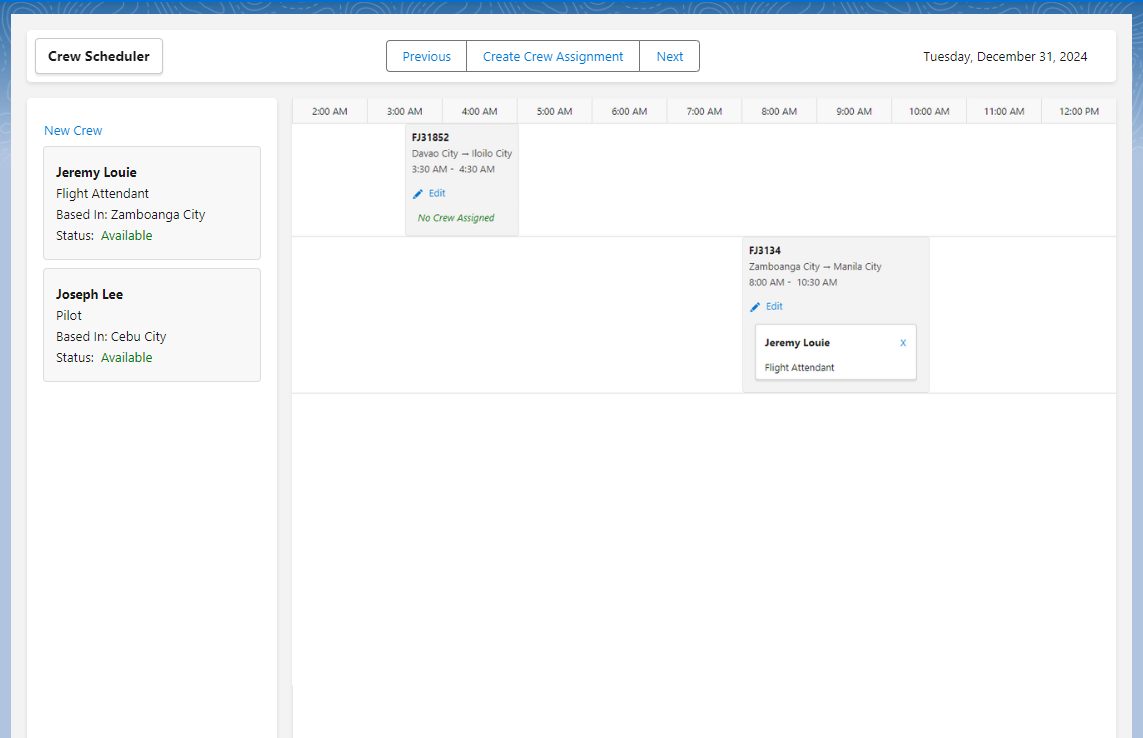
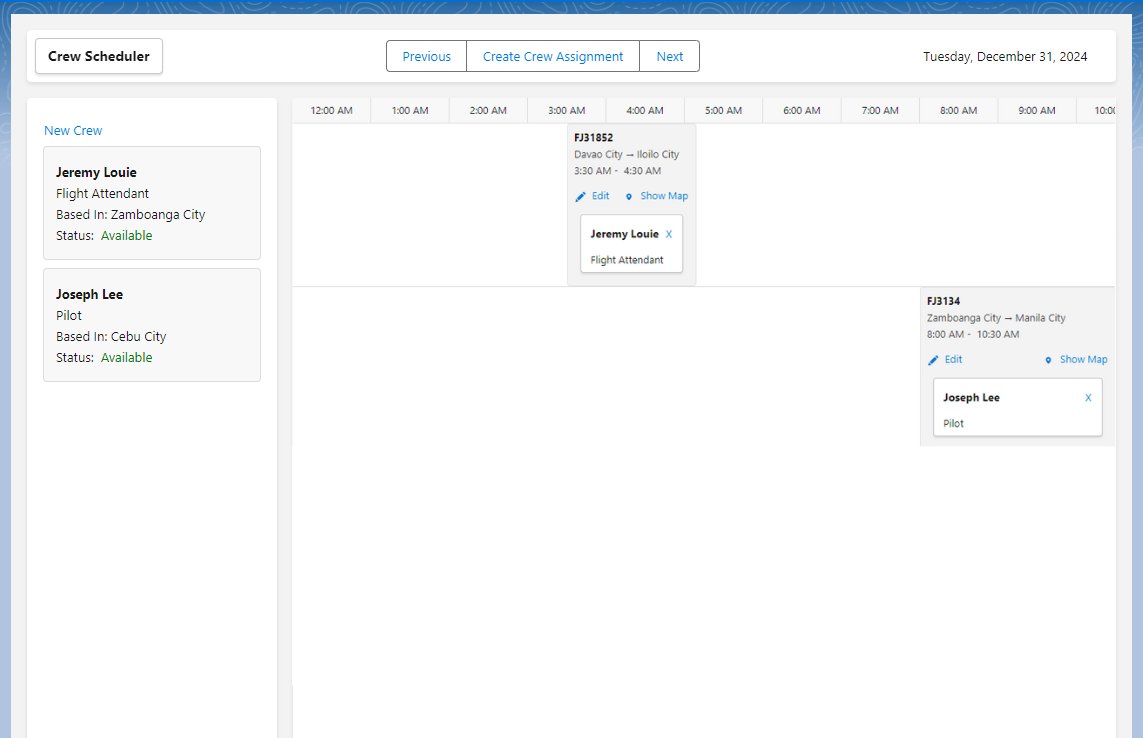
map

diff --git a/app/routes/projects.airlineCrewScheduling/airline.jsx b/app/routes/projects.airlineCrewScheduling/airline.jsx
@@ -4,6 +4,7 @@ import backgroundSpr from '~/assets/Airline-Crew-Scheduling.png';
 import airlineCrews from '~/assets/acs-crews.png';
 import airlineCrewSchedulingTimeline from '~/assets/acs-timeline.png';
 import airlineCrewSchedulingNewAssignment from '~/assets/acs-new-assignment.png';
+import flightMap from '~/assets/flight-map.png';
 import udemyCertificate from '~/assets/UC-0f64e9d6-3334-4a59-aec6-56dd7a7204de.pdf';
 import assignmentsCode from './createAssignments.txt?raw';
 import availabilityTriggerCode from './availabilityTrigger.txt?raw';
@@ -57,6 +58,7 @@ export const Airline = () => {
   const newAssignmentSection = useRef();
   const codeSection = useRef();
   const triggerSection = useRef();
+  const flightMapSection = useRef();
 
   const sections = [
     headerSection,
@@ -66,6 +68,7 @@ export const Airline = () => {
     crewsSection,
     codeSection,
     triggerSection,
+    flightMapSection,
   ];
 
   useEffect(() => {
@@ -164,8 +167,7 @@ export const Airline = () => {
               <span className={styles.captionContent}>
                 <Icon icon="link" className={styles.captionIcon} />
                 <span className={styles.imageCaption}>
-                  "Crews who are available for flight assignments can be dropped in one of
-                  these assignment boxes."
+                  "Crews who are available for flight assignments are dropped in these assignment boxes."
                 </span>
               </span>
             </div>
@@ -324,6 +326,36 @@ export const Airline = () => {
                   {availabilityTriggerCode}
                 </SyntaxHighlighter>
               </div>
+            </div>
+          </ProjectSectionContent>
+        </ProjectSection>
+        <ProjectSection padding="top" ref={flightMapSection}>
+          <ProjectSectionContent>
+            <ProjectImage
+              className={styles.themeImage}
+              key={theme}
+              srcSet={
+                isDark
+                  ? `${flightMap} 1280w, ${flightMap} 2560w`
+                  : `${flightMap} 1280w, ${flightMap} 2560w`
+              }
+              width={1280}
+              height={800}
+              placeholder={
+                isDark
+                  ? flightMap
+                  : flightMap
+              }
+              sizes={`(max-width: ${media.mobile}px) 100vw, (max-width: ${media.tablet}px) 800px, 1000px`}
+              alt="This is how those assignment boxes are created"
+            />
+            <div className={styles.captionWrapper}>
+              <span className={styles.captionContent}>
+                <Icon icon="link" className={styles.captionIcon} />
+                <span className={styles.imageCaption}>
+                  "Now the flight map is here. Where origin and destination are on a separate LWC component from the scheduling timeline."
+                </span>
+              </span>
             </div>
           </ProjectSectionContent>
         </ProjectSection>
